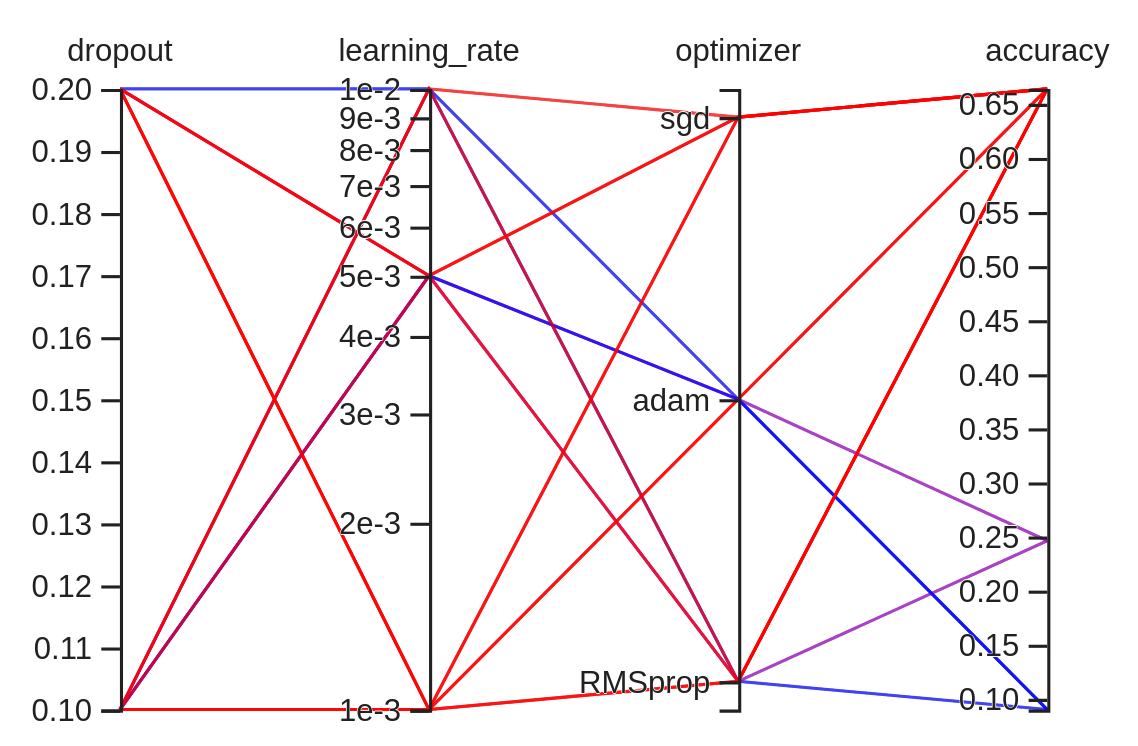
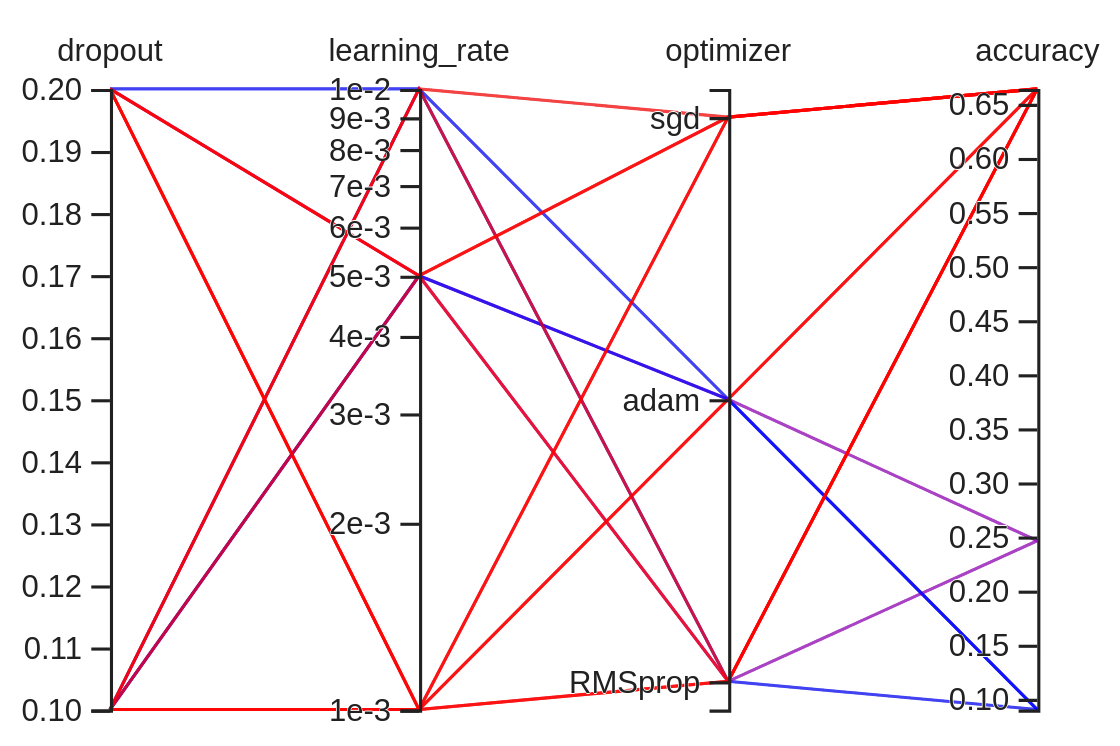
hp tuning images added

diff --git a/README.md b/README.md
@@ -40,6 +40,6 @@ Optimized hyperparmeters:
 Nevertheless, I cannot conduct an accurate tuning with lots of models and hyperparameters because of a lack of time and computational power. Hence, I used a grid search testing only three hyperparameters. The aim was to try the TensorBoard tool, which was successfully done.
 
 <p align="center">
-  <img src="img/hp_table.png" width=600><br>
-  <img src="img/hp_graph.png" width=600>
+  <img src="img/hp_table.png" width=350>
+  <img src="img/hp_graph.png" width=350>
 </p>
